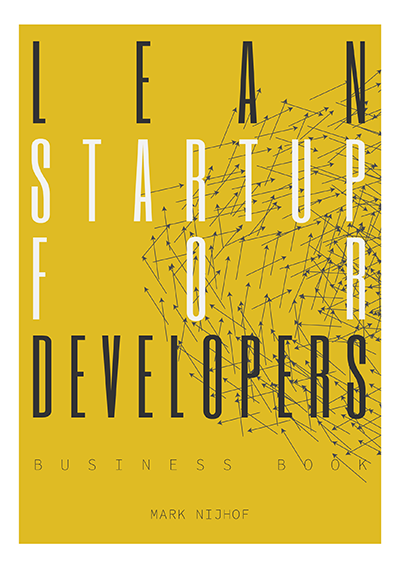
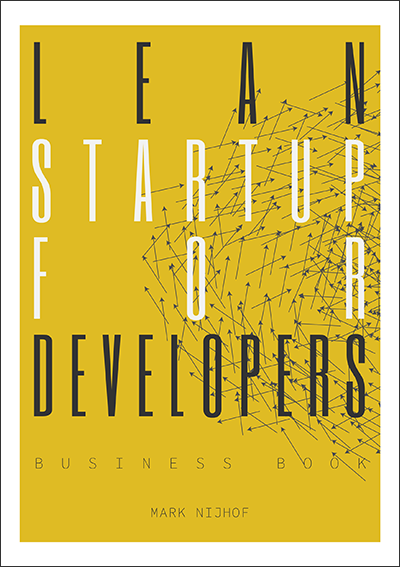
added the border to the image instead of css

diff --git a/app/public/stylesheets/index.css b/app/public/stylesheets/index.css
@@ -153,7 +153,7 @@ ul {
 .book-cover {
   position: relative;
   width: 400px;
-  border: 1px solid #2f3033;
+  border: 0px none #f2f2f2;
   margin: 50px 20px;
 }
 .content {
